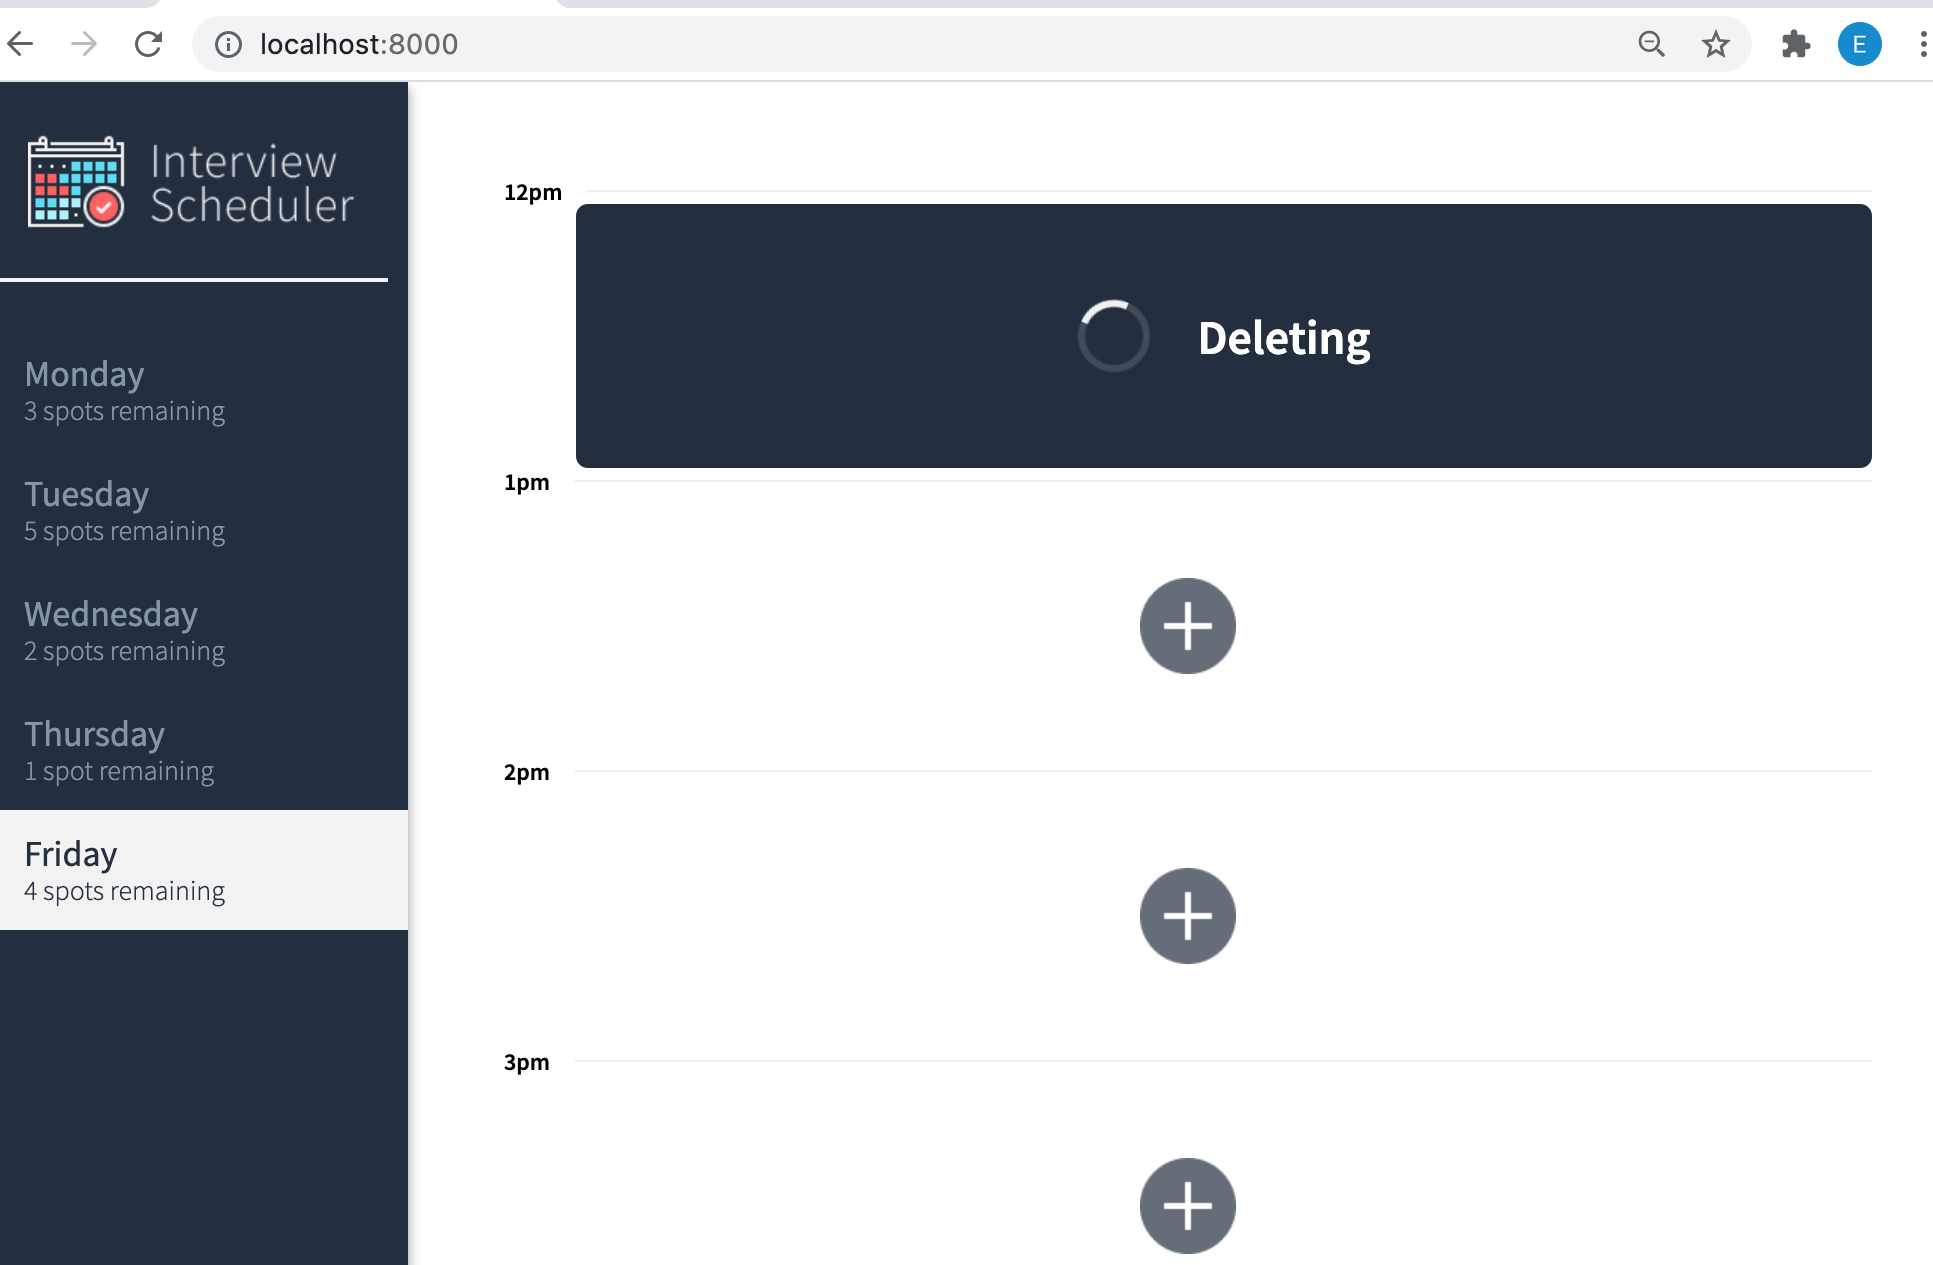
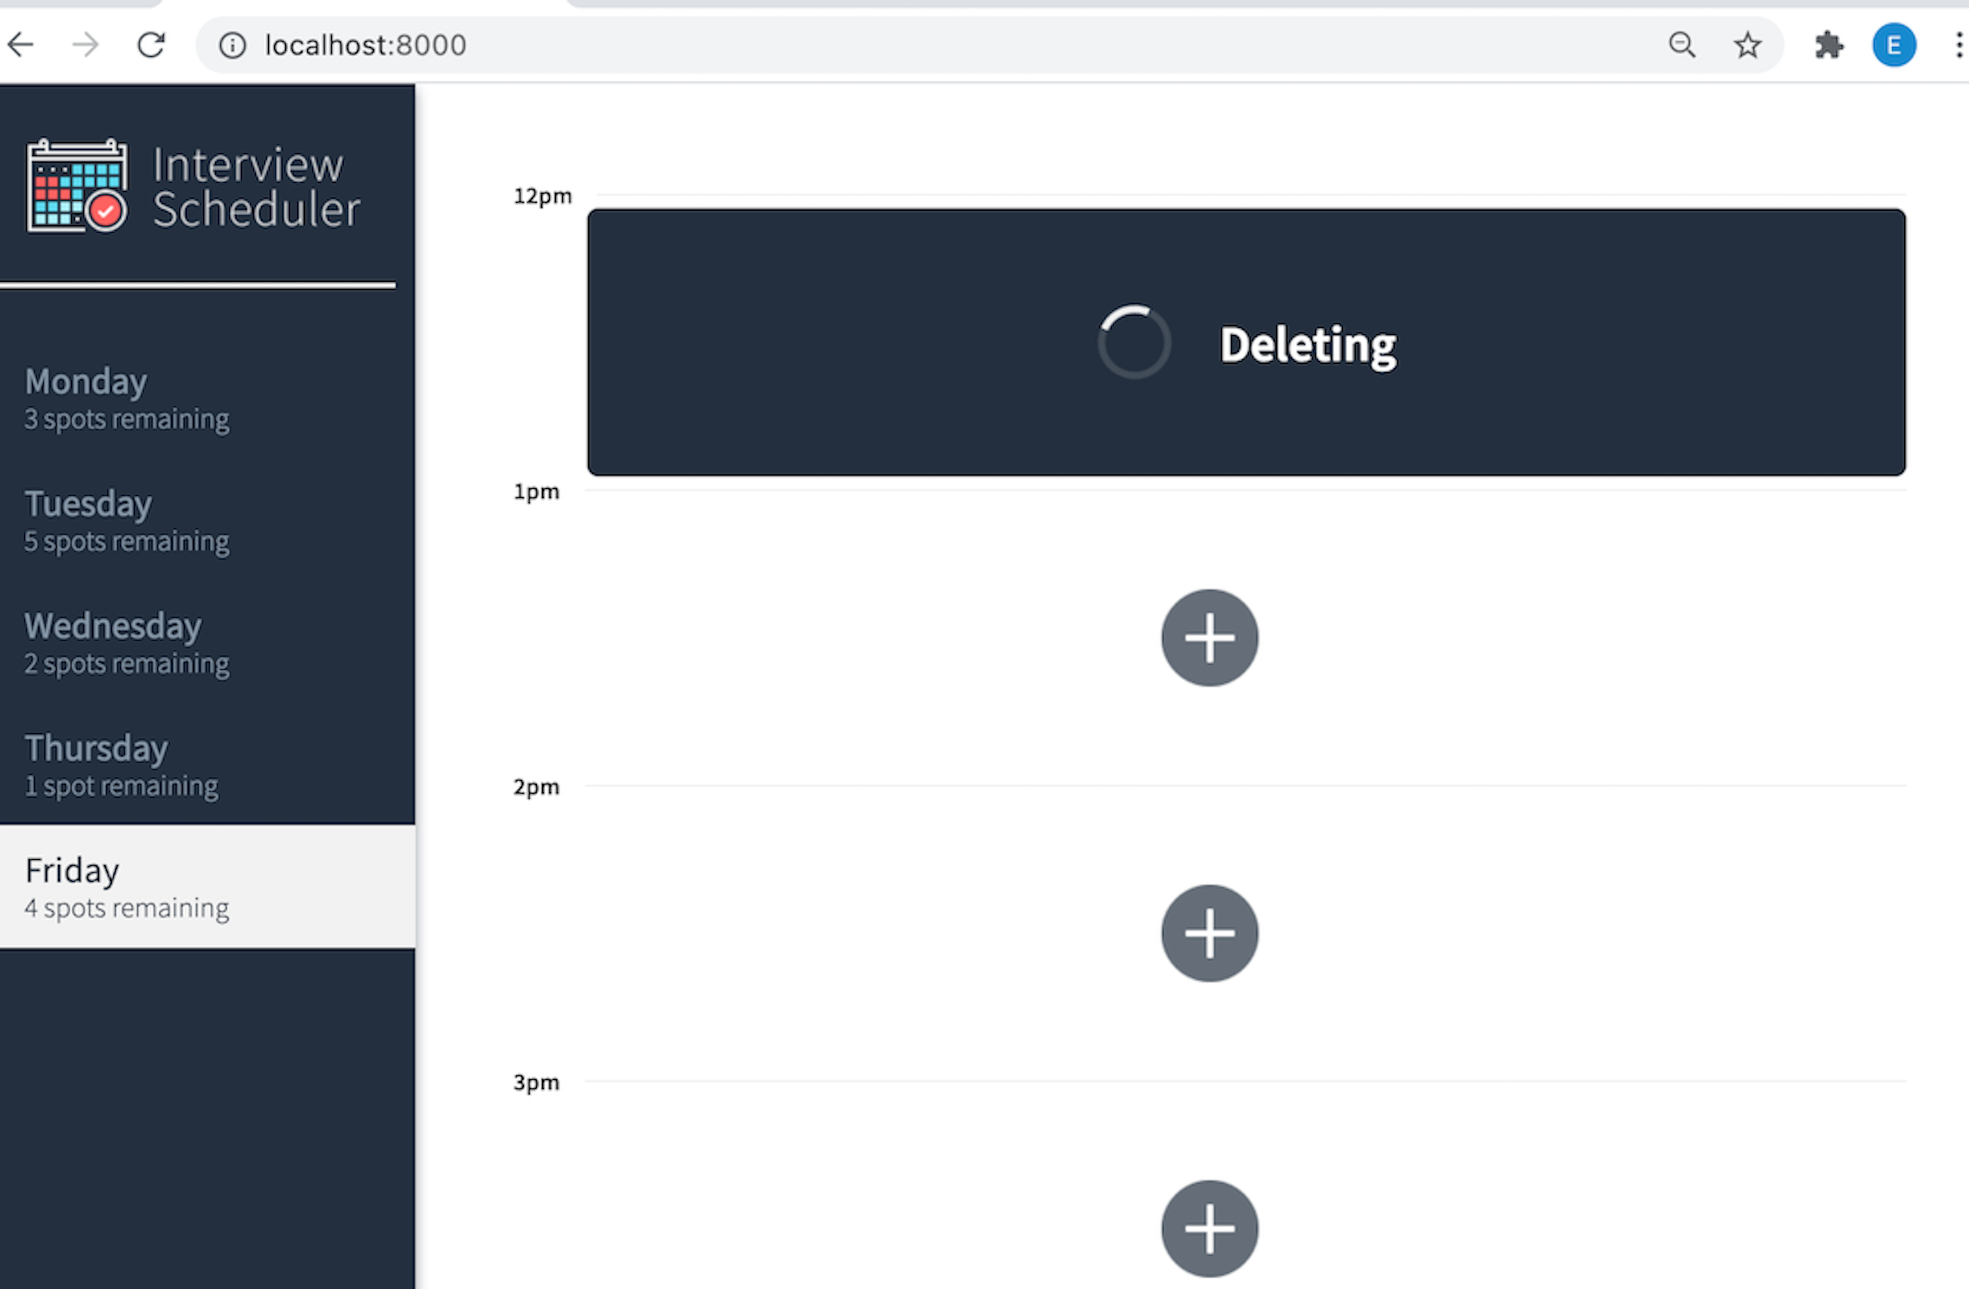
✍🏽 Add more files

diff --git a/README.md b/README.md
@@ -32,7 +32,7 @@ For the tests, Storybook is used to test components. Jest and Cypress are used t
 
 ### Deleting process
 
-["deleting"](https://github.com/Emeka-asogwa/scheduler/blob/master/docs/deleting.png)
+["deleting"](https://github.com/Emeka-asogwa/scheduler/blob/master/docs/deleting1.png)
 
 ### Server error when the API server is inaccessible while deleting schedule
 
